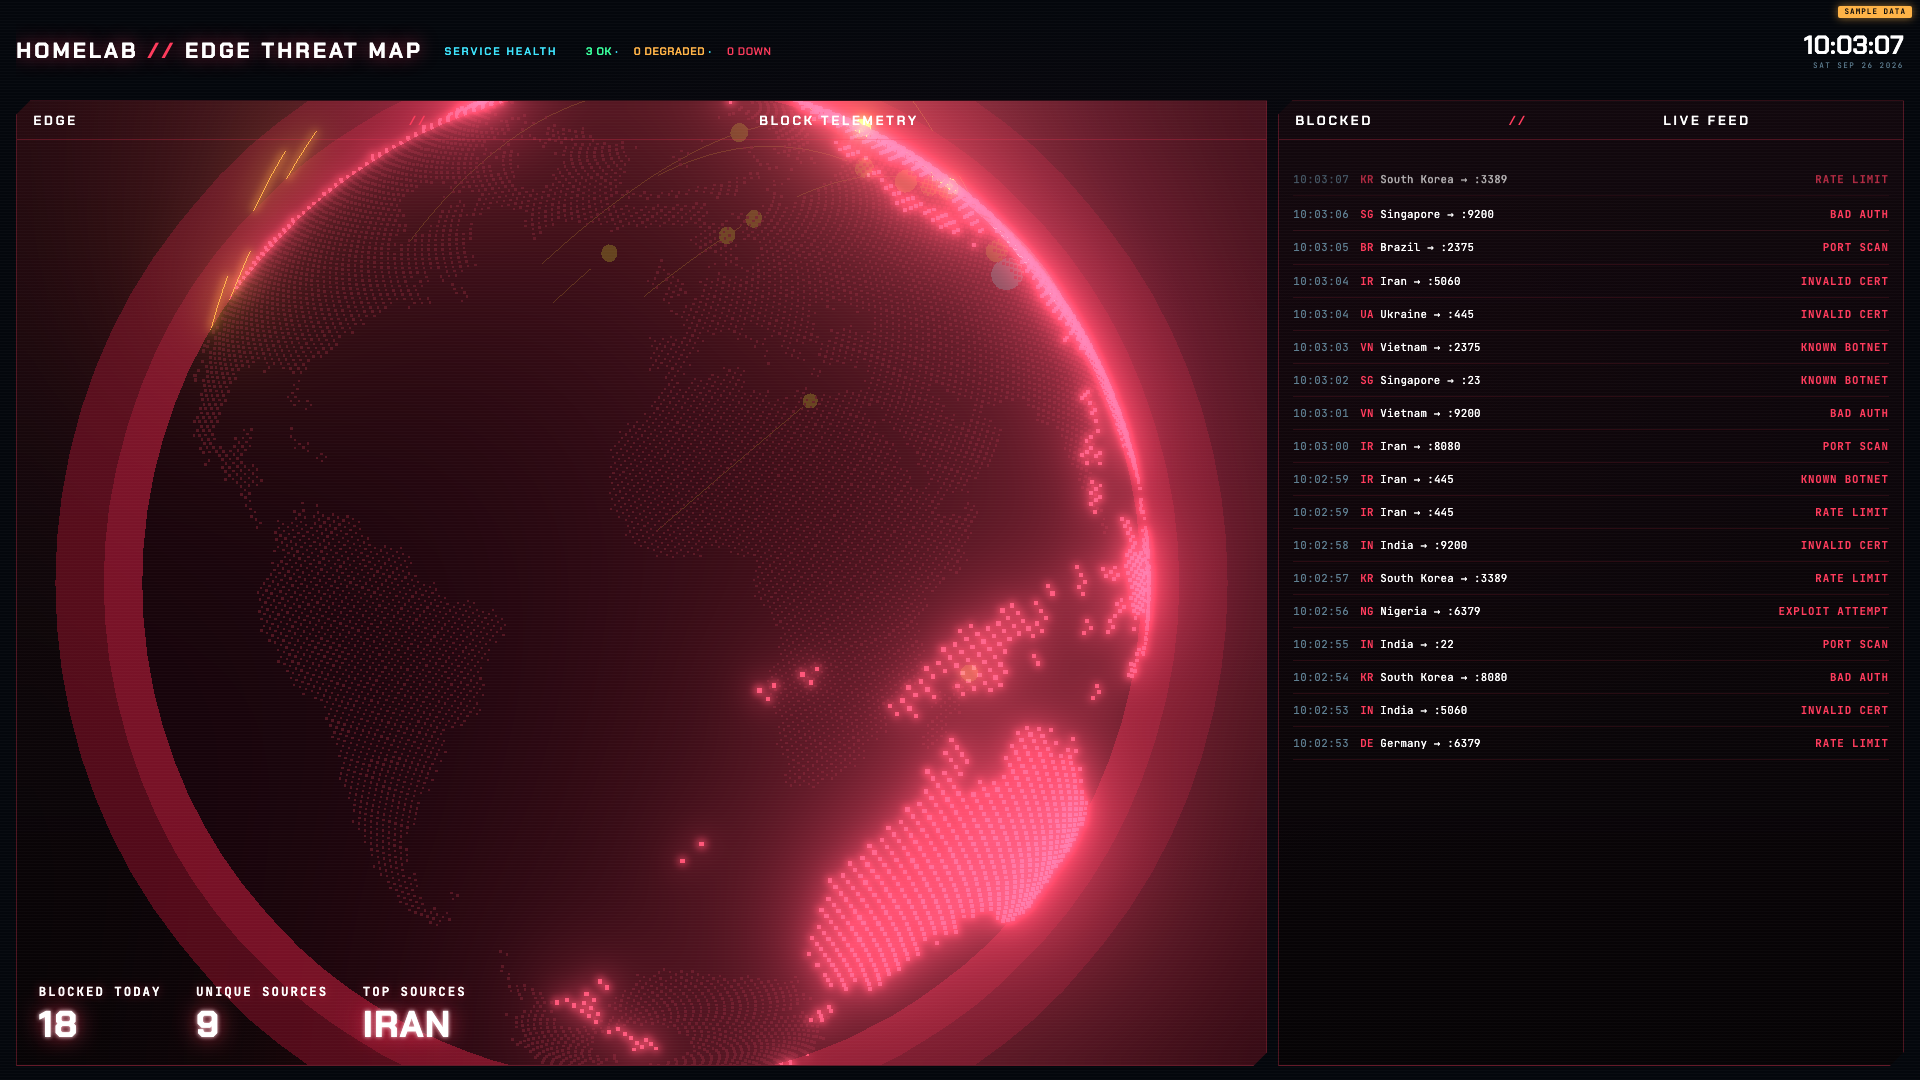
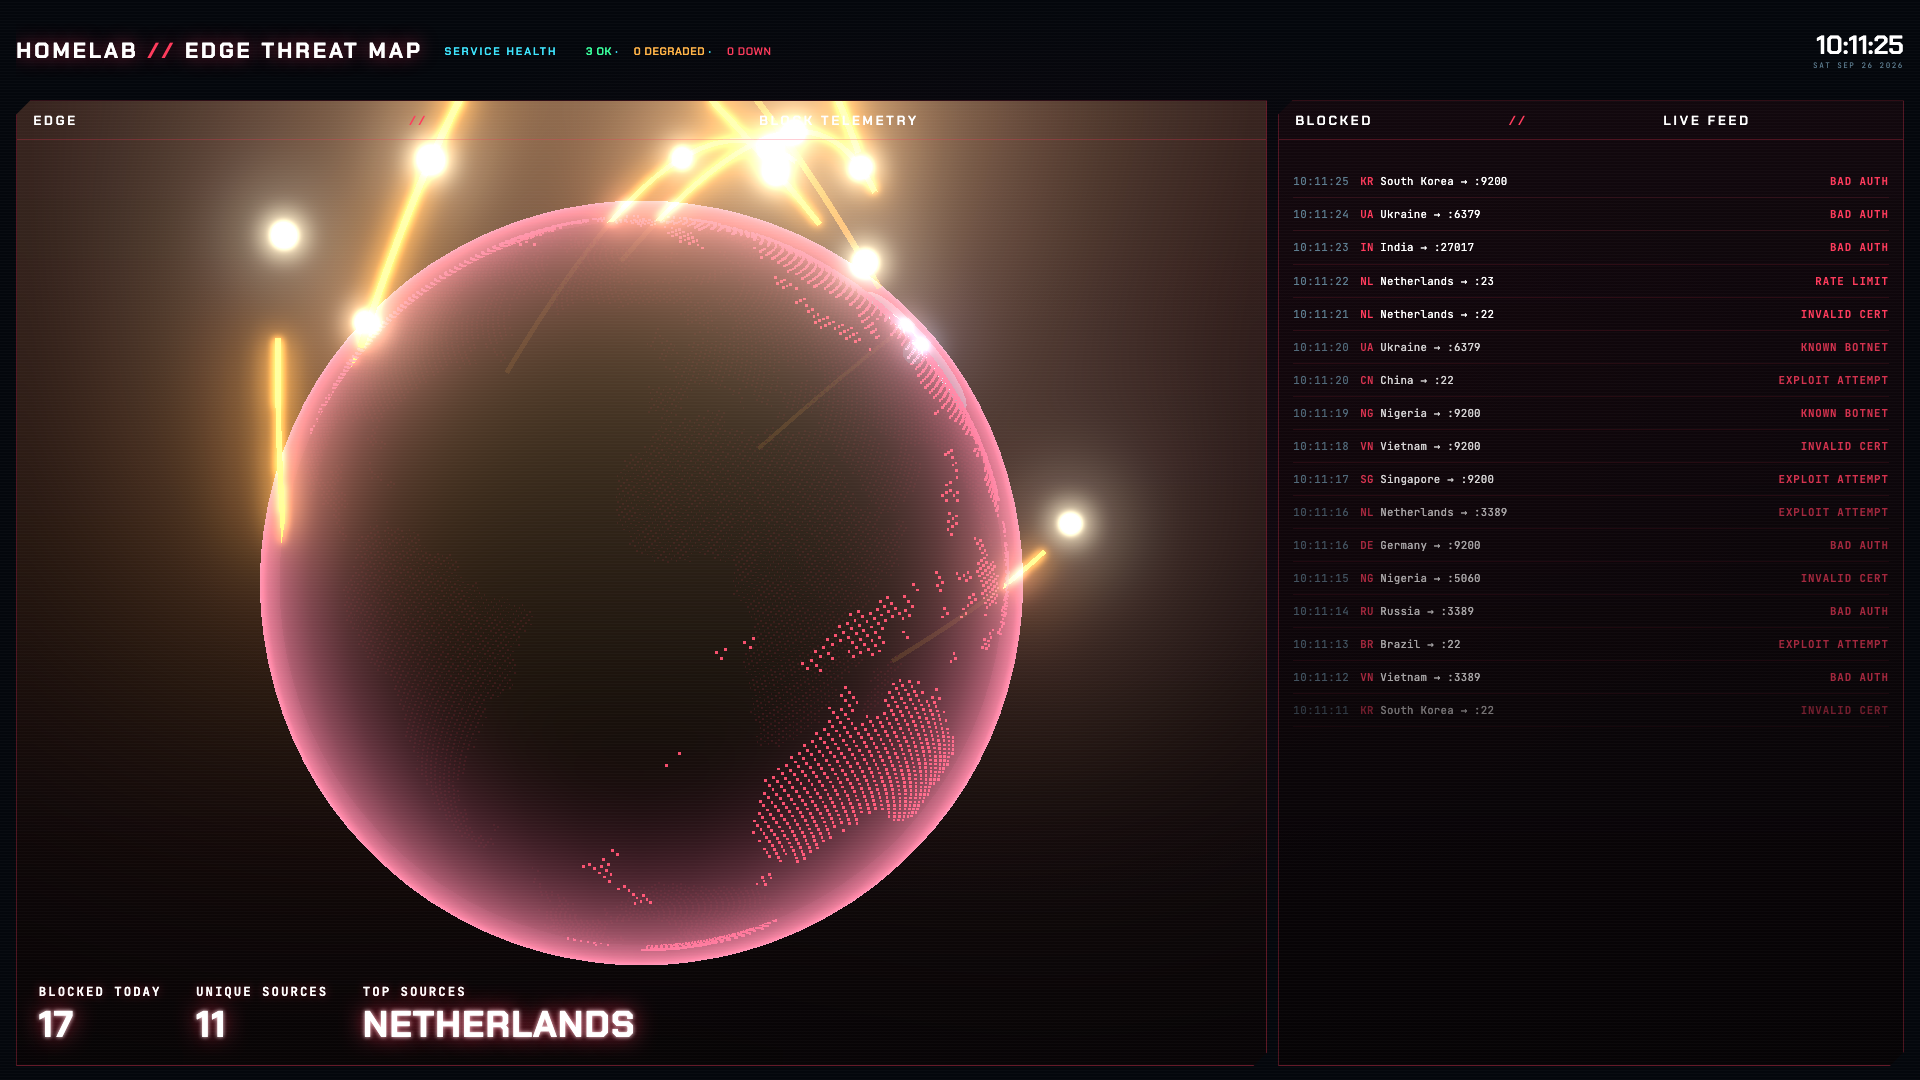
fix(mc2): frame the whole globe, make arcs the hero, fix atmosphere contrast
Review feedback on the first after-screenshot:

- Camera was too close: the atmosphere sphere's radius exceeded the
  frustum's half-height at that distance, clipping the globe on the
  bottom/left. Pull the camera back so the whole globe (with its
  atmosphere) fits at ~80-85% of panel height, centered.
- Arcs were invisible: THREE.Line ignores linewidth on every browser
  but Firefox/Windows, so they rendered as 1px hairlines. Rebuild each
  arc as a THREE.TubeGeometry (real 3D thickness), raise the apex
  height so arcs rise well clear of the surface, and give tubes/heads
  HDR-overbright colors (component values >1, read by the existing
  UnrealBloomPass) so they visibly glow instead of blending into the
  globe. Raised the bloom threshold so only HDR elements (arcs, heads,
  the home beacon, the atmosphere rim) bloom, not the whole scene.
- Atmosphere/ocean contrast: the prior two flat BackSide spheres
  rendered as a uniform-opacity disc over the WHOLE visible hemisphere
  (a plain material has no view-angle falloff), which is what produced
  the "muddy red wash." Replaced with a fresnel/rim ShaderMaterial
  (opacity ramps up only near the silhouette) so the rim reads as a
  thin bright line and the globe body (now near-black) reads as ocean.
- Added a HOME beacon: a scale-pulsing HDR core plus a periodic
  expanding ring (the same ring arcs trigger on arrival), so the
  landing point is visibly "alive" even between arrivals.
[…]

diff --git a/site/mc2/mc2.js b/site/mc2/mc2.js
@@ -91,11 +91,12 @@ function addFeedRow(source) {
   const port = FEED_PORTS[(Math.random() * FEED_PORTS.length) | 0];
   const reason = FEED_REASONS[(Math.random() * FEED_REASONS.length) | 0];
   const row = document.createElement('div');
-  row.className = 'frow';
+  row.className = 'frow frow-flash';
   row.innerHTML = `<span class="t">${fmtTime(new Date())}</span>` +
     `<span class="src"><em>${source.cc}</em> ${source.name} → :${port}</span>` +
     `<span class="act drop">${reason}</span>`;
   feedEl.prepend(row);
+  row.addEventListener('animationend', () => row.classList.remove('frow-flash'), { once: true });
   while (feedEl.children.length > MAX_FEED_ROWS) feedEl.lastChild.remove();
 
   blockedToday += 1;
@@ -148,10 +149,11 @@ function buildGlobe() {
   const renderer = new THREE.WebGLRenderer({ canvas: globeCanvas, antialias: true, alpha: true });
   renderer.setPixelRatio(1); // backing-store pixels are set explicitly below
   const scene = new THREE.Scene();
-  // fov/distance tuned so the globe fills most of the panel height rather than sitting small in
-  // a mostly-empty frame (the live-wall finding: "small, dim... 70% empty dark space").
+  // fov/distance tuned so the WHOLE globe (including its atmosphere rim) fits inside the panel
+  // with margin (~80-85% of panel height), never clipped — see the half-height/atmosphere-radius
+  // comment inline below for the math.
   const cam = new THREE.PerspectiveCamera(46, 1, 1, 1000);
-  cam.position.set(0, 0, 196);
+  cam.position.set(0, 0, 260);
   const group = new THREE.Group();
   scene.add(group);
 
@@ -167,83 +169,117 @@ function buildGlobe() {
   }
   const geo = new THREE.BufferGeometry();
   geo.setAttribute('position', new THREE.Float32BufferAttribute(pts, 3));
-  group.add(new THREE.Points(geo, new THREE.PointsMaterial({ color: 0xff4f6f, size: 1.15, transparent: true, opacity: 0.85 })));
-  group.add(new THREE.Mesh(new THREE.SphereGeometry(79, 48, 48), new THREE.MeshBasicMaterial({ color: 0x14040a, transparent: true, opacity: 0.92 })));
-  // Atmosphere rim: an oversized, backside-only sphere so only its silhouette (the limb) shows —
-  // brighter and thicker than a hairline so it's visible as a distinct glow, not just AA fuzz.
-  scene.add(new THREE.Mesh(new THREE.SphereGeometry(84, 48, 48), new THREE.MeshBasicMaterial({ color: 0xff2d55, transparent: true, opacity: 0.16, side: THREE.BackSide })));
-  scene.add(new THREE.Mesh(new THREE.SphereGeometry(90, 48, 48), new THREE.MeshBasicMaterial({ color: 0xff2d55, transparent: true, opacity: 0.07, side: THREE.BackSide })));
+  group.add(new THREE.Points(geo, new THREE.PointsMaterial({ color: 0xff4f6f, size: 1.15, transparent: true, opacity: 0.9 })));
+  // Ocean/globe body: near-black, not the muddy red wash a flat BackSide "atmosphere" sphere
+  // produces (that renders as a uniform-opacity disc over the WHOLE visible hemisphere, not just
+  // the limb, since a plain material has no view-angle falloff) — see the fresnel rim below instead.
+  group.add(new THREE.Mesh(new THREE.SphereGeometry(79, 48, 48), new THREE.MeshBasicMaterial({ color: 0x020103, transparent: true, opacity: 0.97 })));
+
+  // Atmosphere rim: a fresnel/rim shader (opacity ramps up only near the silhouette, via
+  // 1-dot(normal,viewDir)) instead of a flat translucent sphere, so it reads as a thin bright
+  // line at the limb rather than a red wash over the whole disc.
+  const atmosphere = new THREE.Mesh(
+    new THREE.SphereGeometry(83, 48, 48),
+    new THREE.ShaderMaterial({
+      uniforms: { uColor: { value: new THREE.Color(1.4, 0.35, 0.55) } },
+      vertexShader: `varying vec3 vNormal; varying vec3 vViewDir;
+        void main() {
+          vNormal = normalize(normalMatrix * normal);
+          vec4 mv = modelViewMatrix * vec4(position, 1.0);
+          vViewDir = normalize(-mv.xyz);
+          gl_Position = projectionMatrix * mv;
+        }`,
+      fragmentShader: `varying vec3 vNormal; varying vec3 vViewDir; uniform vec3 uColor;
+        void main() {
+          float rim = pow(1.0 - max(dot(vNormal, vViewDir), 0.0), 3.2);
+          gl_FragColor = vec4(uColor, rim);
+        }`,
+      transparent: true,
+      depthWrite: false,
+      blending: THREE.AdditiveBlending,
+      side: THREE.FrontSide,
+    }),
+  );
+  scene.add(atmosphere);
 
   const llToVec = (lat, lon, h = 80) => {
     const la = lat * Math.PI / 180, lo = lon * Math.PI / 180;
     return new THREE.Vector3(Math.cos(la) * Math.cos(lo) * h, Math.sin(la) * h, -Math.cos(la) * Math.sin(lo) * h);
   };
   const home = llToVec(...HOME_LATLON);
-  const homeMarker = new THREE.Mesh(new THREE.SphereGeometry(2.6, 12, 12), new THREE.MeshBasicMaterial({ color: 0x3ee6ff }));
+  // HOME beacon: an HDR-bright core (bloom does the glow) that pulses in scale every frame, plus
+  // a periodic expanding ring (the same visual the impact pulse below uses on arc arrival) so the
+  // beacon is visibly "alive" even between arrivals.
+  const homeCoreMat = new THREE.MeshBasicMaterial({ color: 0x9beeff });
+  homeCoreMat.color.multiplyScalar(3);
+  const homeMarker = new THREE.Mesh(new THREE.SphereGeometry(2.2, 16, 16), homeCoreMat);
   homeMarker.position.copy(home);
   group.add(homeMarker);
 
-  // Animated arcs: a pool of quadratic-bezier lines from a source to `home`. Each one draws in
-  // over its lifetime (a sliding drawRange window gives a moving trail rather than a line that
-  // stays fully lit once revealed), with a bright glowing head (bloom does the actual glow) and,
-  // on arrival, a brief expanding "impact" ring at `home`.
-  const TRAIL_LEN = 22;
+  // Animated arcs: a pool of tube geometries (real 3D thickness — WebGL ignores Line.linewidth
+  // on every browser but Firefox-on-Windows, so a THREE.Line here would render as a 1px hairline
+  // regardless of material settings) from a source to `home`, rising well above the surface.
+  // Each draws in via a sliding-window index range (a moving trail, not a line that stays fully
+  // lit once revealed), with an HDR glowing head and, on arrival, an expanding impact ring.
+  const TUBULAR_SEGS = 48, RADIAL_SEGS = 6, IDX_PER_SEG = RADIAL_SEGS * 6, TRAIL_SEGS = 16;
   const arcs = [];
   const pulses = [];
+  const headMat = new THREE.MeshBasicMaterial({ color: 0xfff2cf });
+  headMat.color.multiplyScalar(2.3);
+  const tubeMat = () => { const m = new THREE.MeshBasicMaterial({ color: 0xffb454, transparent: true, opacity: 1 }); m.color.multiplyScalar(1.6); return m; };
   function spawnArc() {
-    if (arcs.length >= 26) return;
+    if (arcs.length >= 20) return;
     const src = THREAT_SOURCES[(Math.random() * THREAT_SOURCES.length) | 0];
     const a = llToVec(src.lat, src.lon);
-    const mid = a.clone().add(home).multiplyScalar(0.5).normalize().multiplyScalar(80 + a.distanceTo(home) * 0.55);
+    // High apex: the arc rises well above the globe's surface (radius 80), not just skims it.
+    const mid = a.clone().add(home).multiplyScalar(0.5).normalize().multiplyScalar(80 + a.distanceTo(home) * 1.15);
     const curve = new THREE.QuadraticBezierCurve3(a, mid, home);
-    const points = curve.getPoints(60);
-    const lineGeo = new THREE.BufferGeometry().setFromPoints(points);
-    lineGeo.setDrawRange(0, 0);
-    // Amber, not red: the globe/atmosphere are already saturated red-pink, so a same-hue line
-    // washes out against it — amber (paired with the yellow head below) reads as a distinct
-    // "incoming" signal instead of blending into the sphere it's crossing.
-    const line = new THREE.Line(lineGeo, new THREE.LineBasicMaterial({ color: 0xffa63e, transparent: true, opacity: 0.95 }));
-    group.add(line);
-    const head = new THREE.Mesh(new THREE.SphereGeometry(1.8, 8, 8), new THREE.MeshBasicMaterial({ color: 0xffd23e }));
+    const tubeGeo = new THREE.TubeGeometry(curve, TUBULAR_SEGS, 0.65, RADIAL_SEGS, false);
+    tubeGeo.setDrawRange(0, 0);
+    const tube = new THREE.Mesh(tubeGeo, tubeMat());
+    group.add(tube);
+    const head = new THREE.Mesh(new THREE.SphereGeometry(2.1, 10, 10), headMat);
     group.add(head);
-    arcs.push({ line, lineGeo, curve, head, t: 0 });
+    arcs.push({ tube, tubeGeo, curve, head, t: 0 });
   }
-  const spawnId = RM ? null : setInterval(spawnArc, 260);
+  const spawnId = RM ? null : setInterval(spawnArc, 300);
   onDispose(() => { if (spawnId) clearInterval(spawnId); });
 
+  const pulseMat = () => { const m = new THREE.MeshBasicMaterial({ color: 0x9beeff, transparent: true, opacity: 0.9, side: THREE.DoubleSide }); m.color.multiplyScalar(2.4); return m; };
   function spawnPulse() {
-    const ring = new THREE.Mesh(
-      new THREE.RingGeometry(1, 1.6, 24),
-      new THREE.MeshBasicMaterial({ color: 0x3ee6ff, transparent: true, opacity: 0.9, side: THREE.DoubleSide }),
-    );
+    const ring = new THREE.Mesh(new THREE.RingGeometry(1, 1.7, 28), pulseMat());
     ring.position.copy(home);
     ring.lookAt(0, 0, 0);
     group.add(ring);
     pulses.push({ ring, t: 0 });
   }
+  let beaconT = 0;
 
-  const bloomFx = makeBloom(renderer, scene, cam, { strength: 1.1, radius: 0.65, threshold: 0.08 });
+  const bloomFx = makeBloom(renderer, scene, cam, { strength: 1.05, radius: 0.55, threshold: 0.62 });
   observeCanvas(threatPanel, globeCanvas, (w, h) => { renderer.setSize(w, h, false); bloomFx.setSize(w, h); cam.aspect = w / (h || 1); cam.updateProjectionMatrix(); });
   const render = (now) => {
     group.rotation.y = RM ? 0.6 : now / 11000;
+    homeMarker.scale.setScalar(1 + 0.22 * Math.sin(now / 260));
+    beaconT += RM ? 0.02 : 0.014;
+    if (beaconT >= 1) { beaconT = 0; spawnPulse(); }
     for (let i = arcs.length - 1; i >= 0; i -= 1) {
       const arc = arcs[i];
-      arc.t += RM ? 0.016 : 0.01;
-      const head = Math.min(60, (arc.t * 60) | 0);
-      const start = Math.max(0, head - TRAIL_LEN);
-      arc.lineGeo.setDrawRange(start, head - start);
-      arc.line.material.opacity = arc.t > 0.85 ? Math.max(0, 0.95 * (1 - (arc.t - 0.85) / 0.15)) : 0.95;
+      arc.t += RM ? 0.014 : 0.009;
+      const headSeg = Math.min(TUBULAR_SEGS, (arc.t * TUBULAR_SEGS) | 0);
+      const startSeg = Math.max(0, headSeg - TRAIL_SEGS);
+      arc.tubeGeo.setDrawRange(startSeg * IDX_PER_SEG, (headSeg - startSeg) * IDX_PER_SEG);
+      arc.tube.material.opacity = arc.t > 0.85 ? Math.max(0, 1 - (arc.t - 0.85) / 0.15) : 1;
       arc.head.position.copy(arc.curve.getPoint(Math.min(arc.t, 1)));
       if (arc.t >= 1 && !arc.landed) { arc.landed = true; spawnPulse(); }
-      if (arc.t > 1.12) { group.remove(arc.line, arc.head); arcs.splice(i, 1); }
+      if (arc.t > 1.12) { group.remove(arc.tube, arc.head); arc.tubeGeo.dispose(); arc.tube.material.dispose(); arcs.splice(i, 1); }
     }
     for (let i = pulses.length - 1; i >= 0; i -= 1) {
       const p = pulses[i];
-      p.t += RM ? 0.05 : 0.035;
-      const s = 1 + p.t * 9;
+      p.t += RM ? 0.05 : 0.032;
+      const s = 1 + p.t * 10;
       p.ring.scale.set(s, s, s);
       p.ring.material.opacity = Math.max(0, 0.9 * (1 - p.t));
-      if (p.t >= 1) { group.remove(p.ring); pulses.splice(i, 1); }
+      if (p.t >= 1) { group.remove(p.ring); p.ring.material.dispose(); pulses.splice(i, 1); }
     }
     bloomFx.render();
   };

diff --git a/site/mc2/mc2.css b/site/mc2/mc2.css
@@ -46,13 +46,22 @@
 .frow{display:grid;grid-template-columns:auto 1fr auto;gap:clamp(6px,1vmin,12px);align-items:baseline;
   padding:clamp(5px,.9vmin,9px) 0;border-bottom:1px solid rgba(255,59,92,.12);
   font:clamp(9px,1vmin,13px)/1.3 var(--mono);color:var(--dim);white-space:nowrap;overflow:hidden;
-  animation:frow-in .4s ease-out}
+  animation:frow-in .4s ease-out;opacity:1}
 .frow .t{color:var(--dim);letter-spacing:.05em}
 .frow .src{color:#fff;text-overflow:ellipsis;overflow:hidden;letter-spacing:.02em}
 .frow .src em{color:var(--red);font-style:normal;font-weight:600}
 .frow .act{font-weight:700;letter-spacing:.08em;text-transform:uppercase}
 .frow .act.drop{color:var(--red)}
 .frow .act.allow{color:var(--green)}
+/* Older rows fade out gradually rather than staying full-strength until they hit the cap. */
+.frow:nth-child(n+6){opacity:.82}
+.frow:nth-child(n+11){opacity:.62}
+.frow:nth-child(n+17){opacity:.42}
+.frow:nth-child(n+23){opacity:.25}
 @keyframes frow-in{from{opacity:0;transform:translateY(-6px)}to{opacity:1;transform:none}}
+/* The newest row gets a brief amber flash on top of its fade-in, so an insertion reads as an
+   event, not just another line appearing. */
+.frow-flash{animation:frow-in .4s ease-out,frow-flash .7s ease-out}
+@keyframes frow-flash{from{background:rgba(255,166,62,.35)}to{background:transparent}}
 
 @media (prefers-reduced-motion:reduce){*{animation:none!important}}
